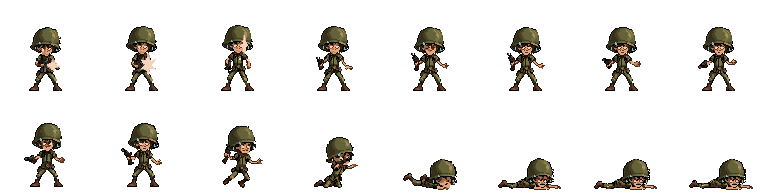
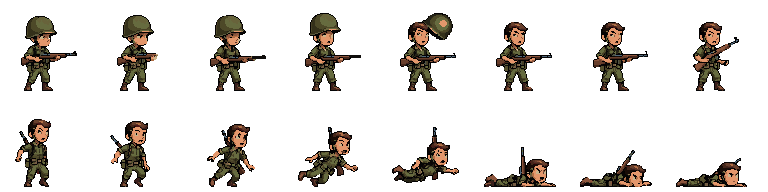
Rebuild Kiralık Asker and widen soldier spacing
New base and walk, shoot and death sheets. The spacing rule now allows
for the guns soldiers hold out, so barrels stop reaching the next body.

diff --git a/src/game/data/enemies.ts b/src/game/data/enemies.ts
@@ -25,7 +25,7 @@ export interface EnemyDef {
 // Animation sheets for each kind are named in data/anims.ts (rifle_walk, armor_shoot, tank_fire ...).
 // Scales are tuned so a soldier is about as tall as Memduh and everything fits a 360-wide screen with room to react.
 export const ENEMIES: Record<EnemyKind, EnemyDef> = {
-    rifle: { name: 'Kiralık Asker', hp: 3, w: 38, h: 78, scale: 1.7, walk: 16, score: 100, pompa: 3, fire: [2.0, 3.0], burst: 1, bulletSpeed: 170, armor: 1, flies: false },
+    rifle: { name: 'Kiralık Asker', hp: 3, w: 38, h: 78, scale: 1.45, walk: 16, score: 100, pompa: 3, fire: [2.0, 3.0], burst: 1, bulletSpeed: 170, armor: 1, flies: false },
     // gummy-bear paratroopers (the Director only ever drops them in by parachute)
     jelibon: { name: 'Jelibon Avcısı', hp: 3, w: 32, h: 62, scale: 1.45, walk: 14, score: 150, pompa: 3, fire: [2.0, 3.0], burst: 1, bulletSpeed: 170, armor: 1, flies: false },
     armor: { name: 'Salata Dönerci', hp: 12, w: 48, h: 82, scale: 1.7, walk: 10, score: 250, pompa: 6, fire: [2.6, 3.4], burst: 1, bulletSpeed: 180, armor: 0.6, flies: false },

diff --git a/src/game/scenes/Game.ts b/src/game/scenes/Game.ts
@@ -509,9 +509,9 @@ export class Game extends Scene {
         return o.on && o.alive && !o.def.flies && o.kind !== 'teacher' && !isBoss(o) && o !== this.cameoE;
     }
 
-    /** Centre-to-centre distance two soldiers need: their drawn bodies (about 45% of the sprite cell, never less than the hit box) plus air. */
+    /** Centre-to-centre distance two soldiers need: their drawn bodies and the guns they hold out (about 58% of the sprite cell, never less than the hit box) plus air. */
     private gapBetween(a: EnemyDef, b: EnemyDef) {
-        return (Math.max(a.w, 44 * a.scale) + Math.max(b.w, 44 * b.scale)) / 2 + 8;
+        return (Math.max(a.w, 56 * a.scale) + Math.max(b.w, 56 * b.scale)) / 2 + 8;
     }
 
     /** `x` moved out to the right until it clears every soldier already out there. */
